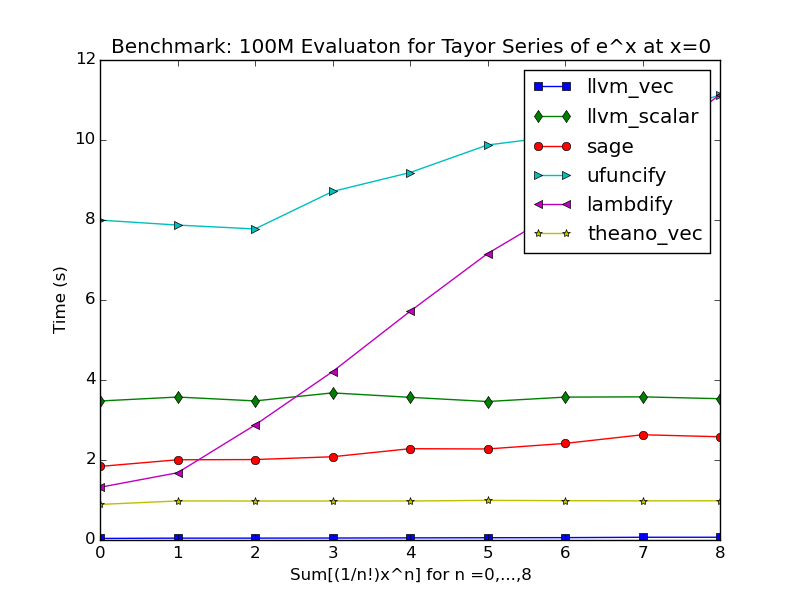
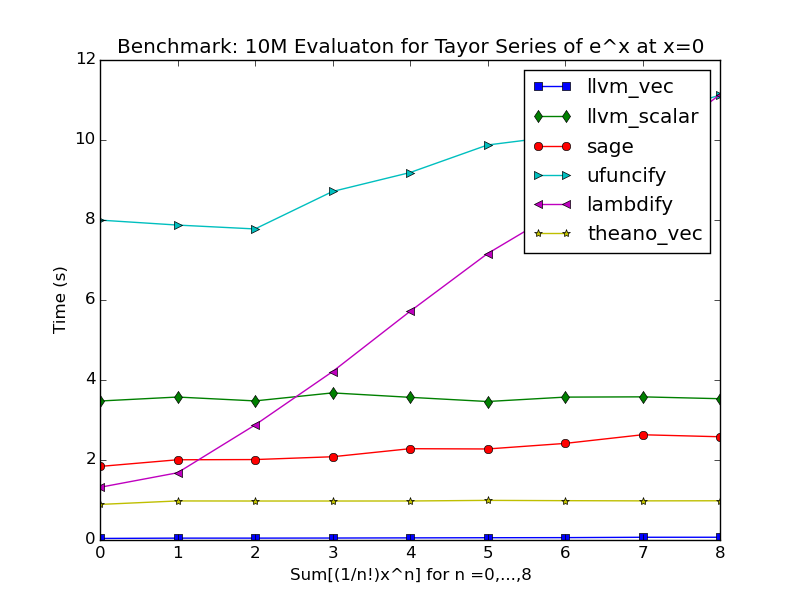
fix 100M->10M

Changed region(s): [[0.125, 0.06, 0.9062, 0.09]]

diff --git a/benchmark-data-plot-sqrt.py b/benchmark-data-plot-sqrt.py
@@ -91,7 +91,7 @@ line, = plt.plot(x, ufuncify,   '>-', linewidth=1)
 line, = plt.plot(x, lambdify,   '<-', linewidth=1)
 line, = plt.plot(x, theano_vec, '*-', linewidth=1)
 ax.legend(['llvm_vec', 'llvm_scalar', 'sage', 'ufuncify', 'lambdify', 'theano_vec'])
-ax.set_title('Benchmark: 100M Evaluaton for Ploy with Fractional Powers')
+ax.set_title('Benchmark: 10M Evaluaton for Ploy with Fractional Powers')
 ax.set_xlabel('Sum[x^(1/n)] for n =1,...,9')
 ax.set_ylabel('Time (s)')
 plt.show()

diff --git a/benchmark-data-plot-taylor.py b/benchmark-data-plot-taylor.py
@@ -89,7 +89,7 @@ line, = plt.plot(x, ufuncify,   '>-', linewidth=1)
 line, = plt.plot(x, lambdify,   '<-', linewidth=1)
 line, = plt.plot(x, theano_vec, '*-', linewidth=1)
 ax.legend(['llvm_vec', 'llvm_scalar', 'sage', 'ufuncify', 'lambdify', 'theano_vec'])
-ax.set_title('Benchmark: 100M Evaluaton for Tayor Series of e^x at x=0')
+ax.set_title('Benchmark: 10M Evaluaton for Tayor Series of e^x at x=0')
 ax.set_xlabel('Sum[(1/n!)x^n] for n =0,...,8')
 ax.set_ylabel('Time (s)')
 plt.show()
